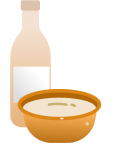
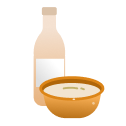
Fix: Record Page 아이콘 수정

diff --git a/src/pages/RecordPage.js b/src/pages/RecordPage.js
@@ -169,7 +169,7 @@ const RecordPage = () => {
                     <img
                       src={getDrinkImage(drink)}
                       alt={drink}
-                      style={{ width: "30px", height: "45px" }}
+                      style={{ width: "45px", height: "45px" }}
                     />
                   </DrinkButton>
                 ))}
@@ -381,6 +381,11 @@ const DrinkButton = styled.button`
   color: ${(props) => (props.selected ? "white" : "#000")};
   font-family: Pretendard;
   font-size: 12px;
+
+  img {
+    width: 42px;
+    height: 42px;
+  }
 `;
 
 const DrinkLabel = styled.div`
